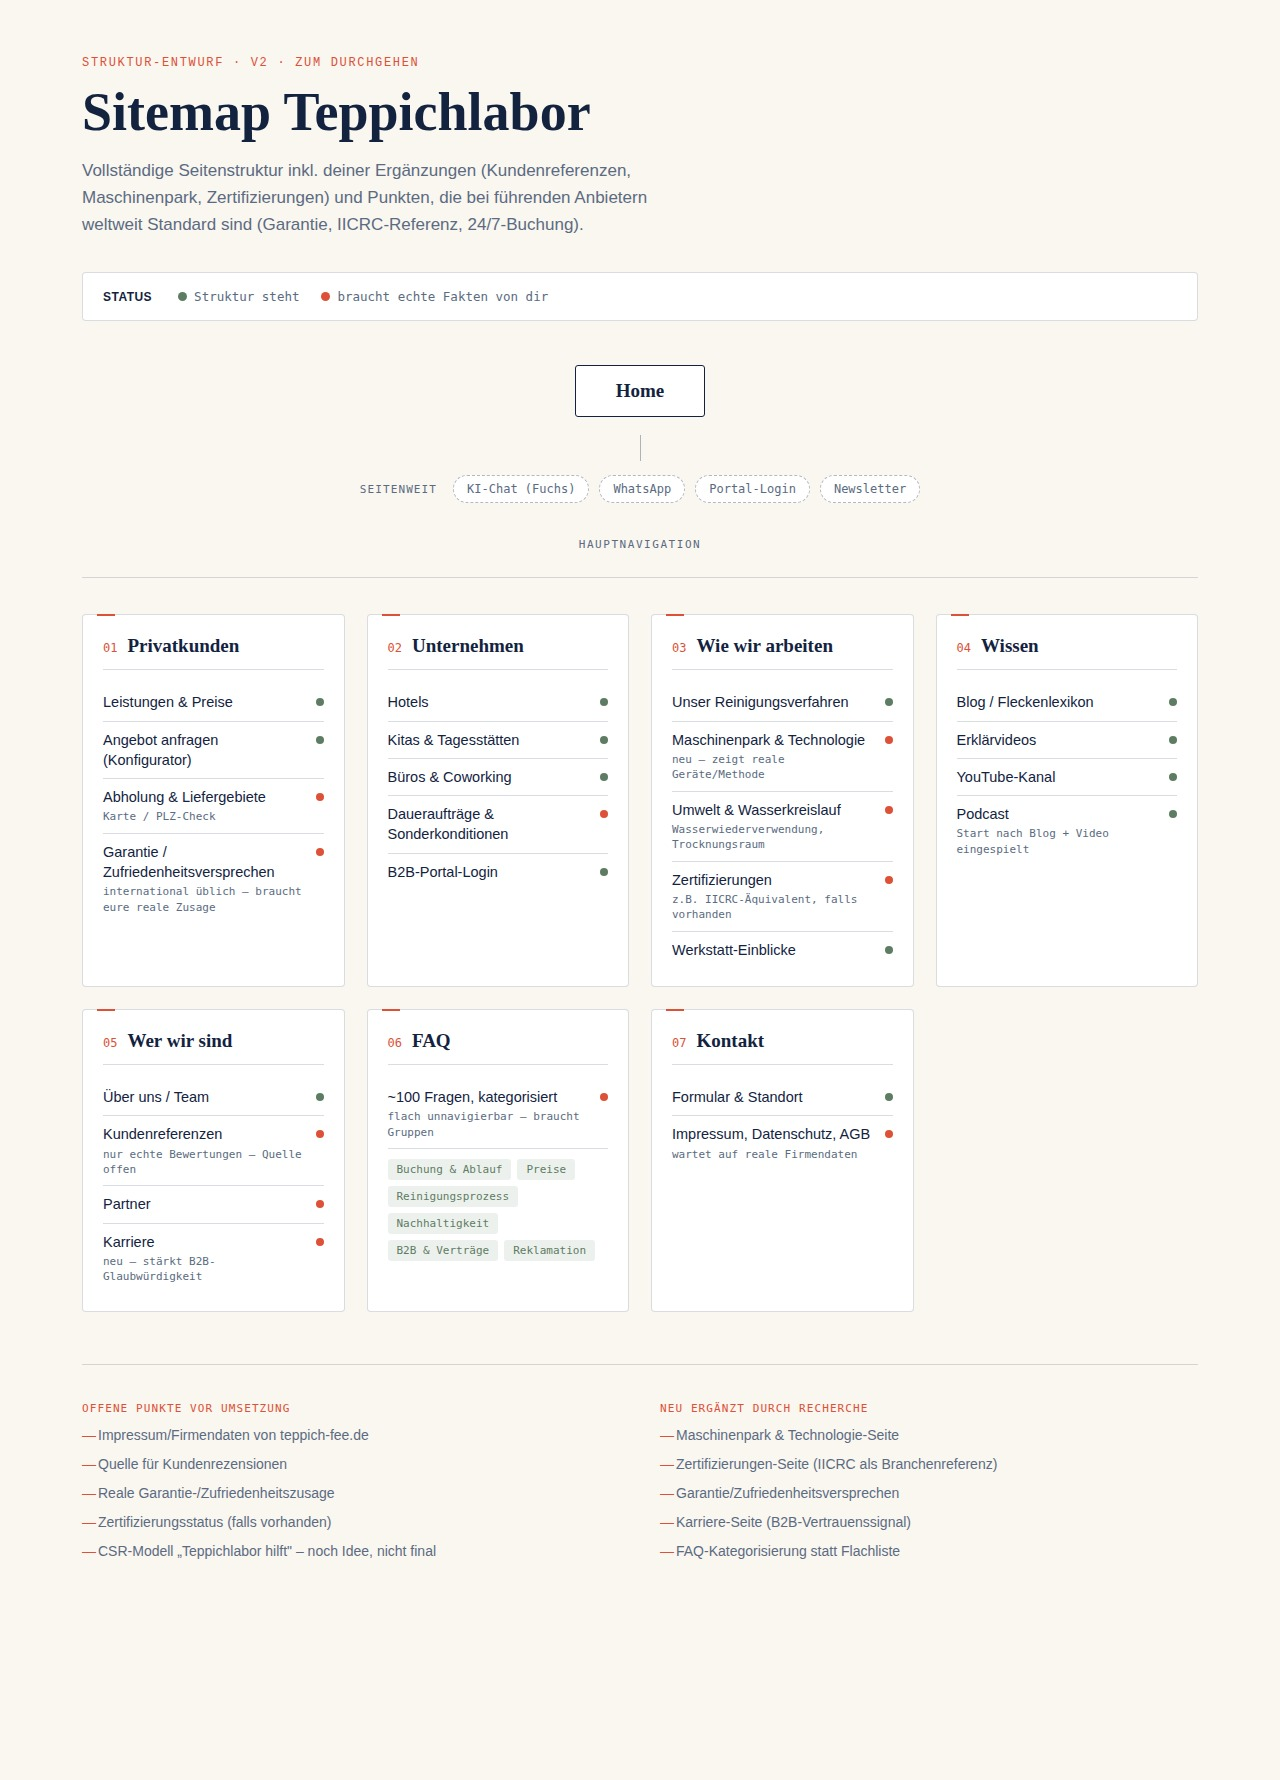
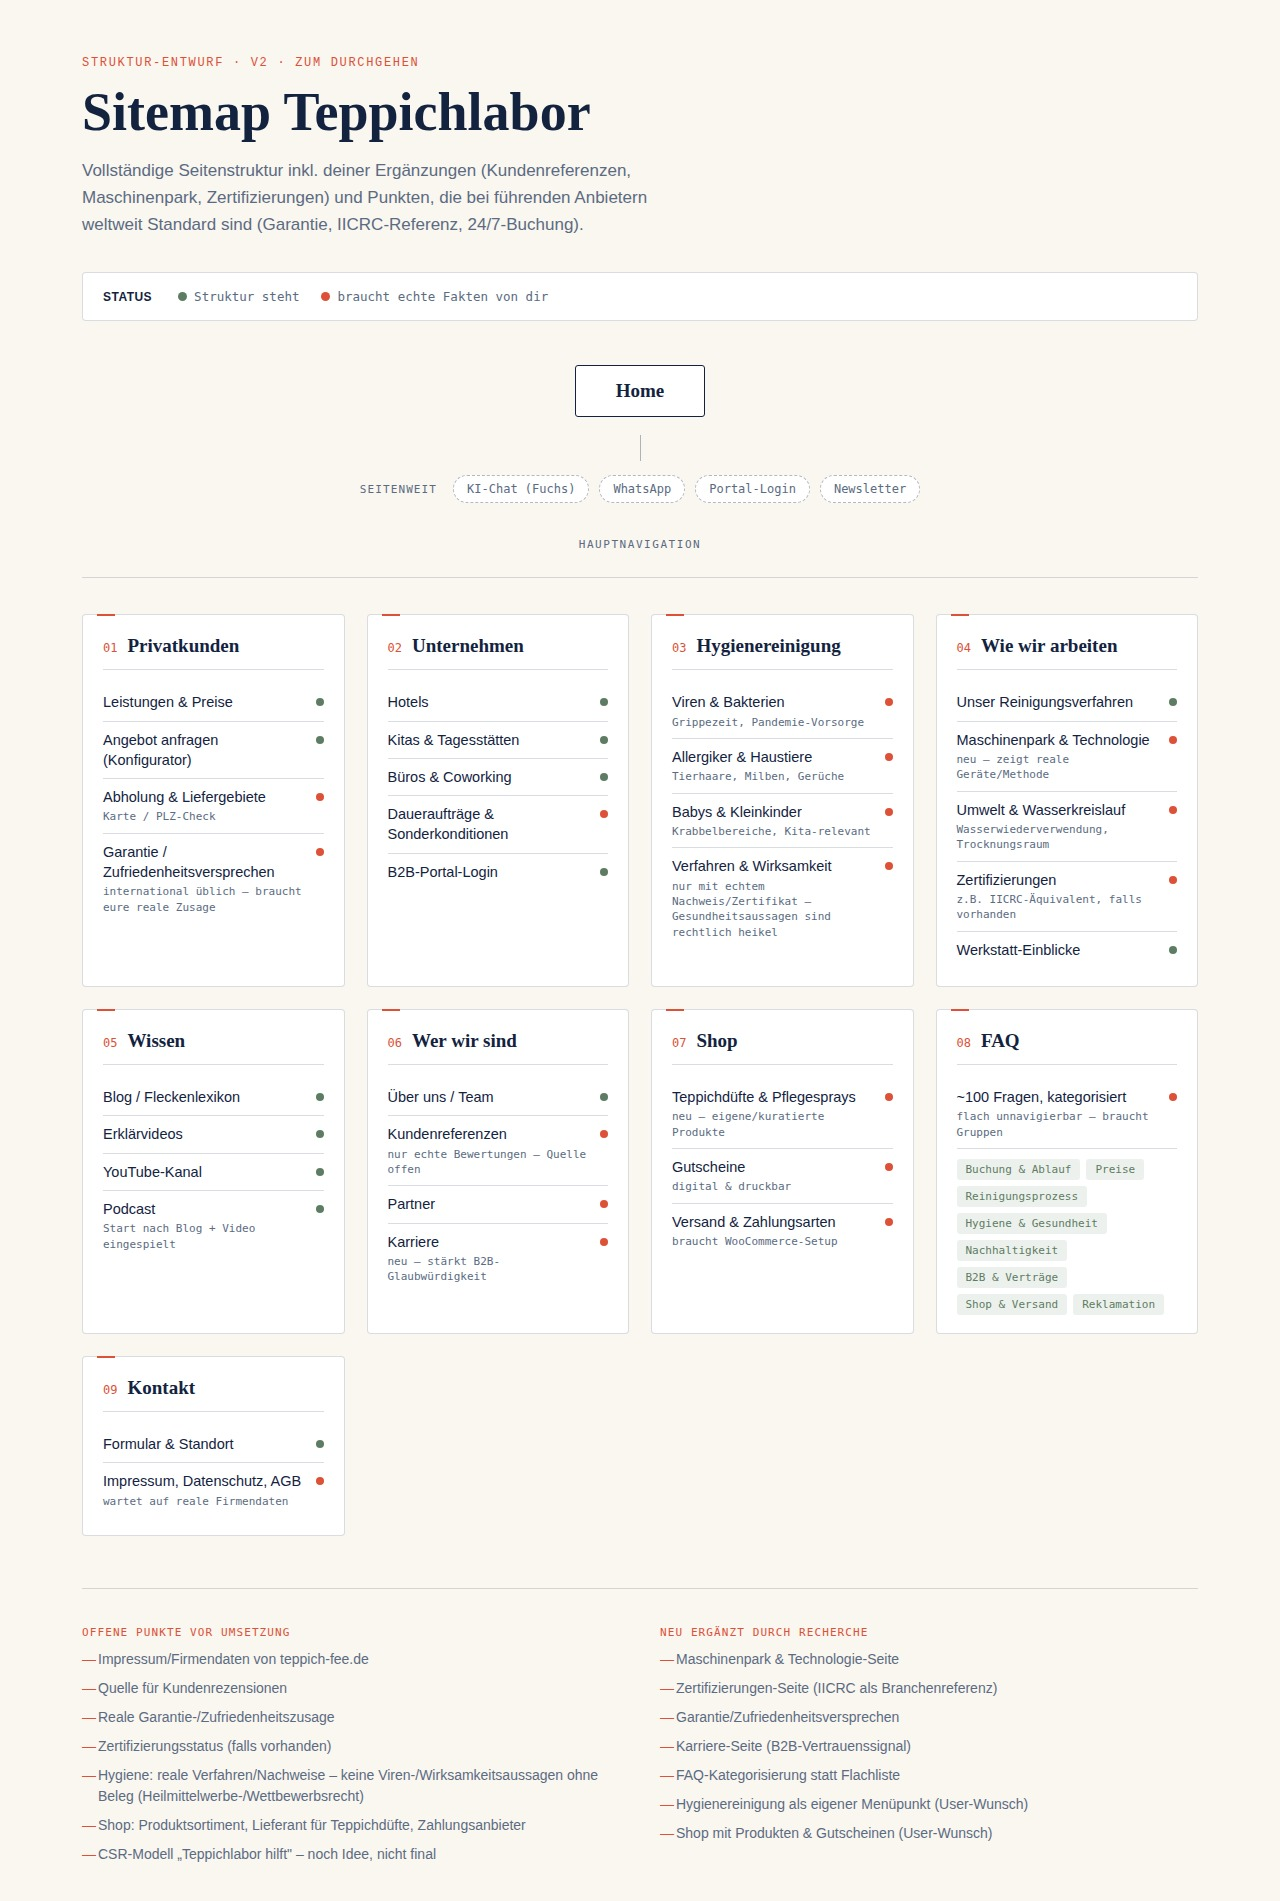
Add Hygienereinigung and Shop sections to sitemap
Claude-Session: https://claude.ai/code/session_016pxjuxBxRAnccDrDef2Lht

diff --git a/brand/sitemap-scribble.html b/brand/sitemap-scribble.html
@@ -345,7 +345,15 @@
     </div>
 
     <div class="card">
-      <div class="card-head"><span class="num">03</span><span class="card-title">Wie wir arbeiten</span></div>
+      <div class="card-head"><span class="num">03</span><span class="card-title">Hygienereinigung</span></div>
+      <div class="item"><span class="item-name">Viren & Bakterien<span class="item-note">Grippezeit, Pandemie-Vorsorge</span></span><span class="flag open"></span></div>
+      <div class="item"><span class="item-name">Allergiker & Haustiere<span class="item-note">Tierhaare, Milben, Gerüche</span></span><span class="flag open"></span></div>
+      <div class="item"><span class="item-name">Babys & Kleinkinder<span class="item-note">Krabbelbereiche, Kita-relevant</span></span><span class="flag open"></span></div>
+      <div class="item"><span class="item-name">Verfahren & Wirksamkeit<span class="item-note">nur mit echtem Nachweis/Zertifikat – Gesundheitsaussagen sind rechtlich heikel</span></span><span class="flag open"></span></div>
+    </div>
+
+    <div class="card">
+      <div class="card-head"><span class="num">04</span><span class="card-title">Wie wir arbeiten</span></div>
       <div class="item"><span class="item-name">Unser Reinigungsverfahren</span><span class="flag ready"></span></div>
       <div class="item"><span class="item-name">Maschinenpark & Technologie<span class="item-note">neu – zeigt reale Geräte/Methode</span></span><span class="flag open"></span></div>
       <div class="item"><span class="item-name">Umwelt & Wasserkreislauf<span class="item-note">Wasserwiederverwendung, Trocknungsraum</span></span><span class="flag open"></span></div>
@@ -354,7 +362,7 @@
     </div>
 
     <div class="card">
-      <div class="card-head"><span class="num">04</span><span class="card-title">Wissen</span></div>
+      <div class="card-head"><span class="num">05</span><span class="card-title">Wissen</span></div>
       <div class="item"><span class="item-name">Blog / Fleckenlexikon</span><span class="flag ready"></span></div>
       <div class="item"><span class="item-name">Erklärvideos</span><span class="flag ready"></span></div>
       <div class="item"><span class="item-name">YouTube-Kanal</span><span class="flag ready"></span></div>
@@ -362,7 +370,7 @@
     </div>
 
     <div class="card">
-      <div class="card-head"><span class="num">05</span><span class="card-title">Wer wir sind</span></div>
+      <div class="card-head"><span class="num">06</span><span class="card-title">Wer wir sind</span></div>
       <div class="item"><span class="item-name">Über uns / Team</span><span class="flag ready"></span></div>
       <div class="item"><span class="item-name">Kundenreferenzen<span class="item-note">nur echte Bewertungen – Quelle offen</span></span><span class="flag open"></span></div>
       <div class="item"><span class="item-name">Partner</span><span class="flag open"></span></div>
@@ -370,20 +378,29 @@
     </div>
 
     <div class="card">
-      <div class="card-head"><span class="num">06</span><span class="card-title">FAQ</span></div>
+      <div class="card-head"><span class="num">07</span><span class="card-title">Shop</span></div>
+      <div class="item"><span class="item-name">Teppichdüfte & Pflegesprays<span class="item-note">neu – eigene/kuratierte Produkte</span></span><span class="flag open"></span></div>
+      <div class="item"><span class="item-name">Gutscheine<span class="item-note">digital & druckbar</span></span><span class="flag open"></span></div>
+      <div class="item"><span class="item-name">Versand & Zahlungsarten<span class="item-note">braucht WooCommerce-Setup</span></span><span class="flag open"></span></div>
+    </div>
+
+    <div class="card">
+      <div class="card-head"><span class="num">08</span><span class="card-title">FAQ</span></div>
       <div class="item"><span class="item-name">~100 Fragen, kategorisiert<span class="item-note">flach unnavigierbar – braucht Gruppen</span></span><span class="flag open"></span></div>
       <div class="faq-groups">
         <span class="chip">Buchung & Ablauf</span>
         <span class="chip">Preise</span>
         <span class="chip">Reinigungsprozess</span>
+        <span class="chip">Hygiene & Gesundheit</span>
         <span class="chip">Nachhaltigkeit</span>
         <span class="chip">B2B & Verträge</span>
+        <span class="chip">Shop & Versand</span>
         <span class="chip">Reklamation</span>
       </div>
     </div>
 
     <div class="card">
-      <div class="card-head"><span class="num">07</span><span class="card-title">Kontakt</span></div>
+      <div class="card-head"><span class="num">09</span><span class="card-title">Kontakt</span></div>
       <div class="item"><span class="item-name">Formular & Standort</span><span class="flag ready"></span></div>
       <div class="item"><span class="item-name">Impressum, Datenschutz, AGB<span class="item-note">wartet auf reale Firmendaten</span></span><span class="flag open"></span></div>
     </div>
@@ -398,6 +415,8 @@
         <li>Quelle für Kundenrezensionen</li>
         <li>Reale Garantie-/Zufriedenheitszusage</li>
         <li>Zertifizierungsstatus (falls vorhanden)</li>
+        <li>Hygiene: reale Verfahren/Nachweise – keine Viren-/Wirksamkeitsaussagen ohne Beleg (Heilmittelwerbe-/Wettbewerbsrecht)</li>
+        <li>Shop: Produktsortiment, Lieferant für Teppichdüfte, Zahlungsanbieter</li>
         <li>CSR-Modell „Teppichlabor hilft" – noch Idee, nicht final</li>
       </ul>
     </div>
@@ -409,6 +428,8 @@
         <li>Garantie/Zufriedenheitsversprechen</li>
         <li>Karriere-Seite (B2B-Vertrauenssignal)</li>
         <li>FAQ-Kategorisierung statt Flachliste</li>
+        <li>Hygienereinigung als eigener Menüpunkt (User-Wunsch)</li>
+        <li>Shop mit Produkten & Gutscheinen (User-Wunsch)</li>
       </ul>
     </div>
   </footer>
